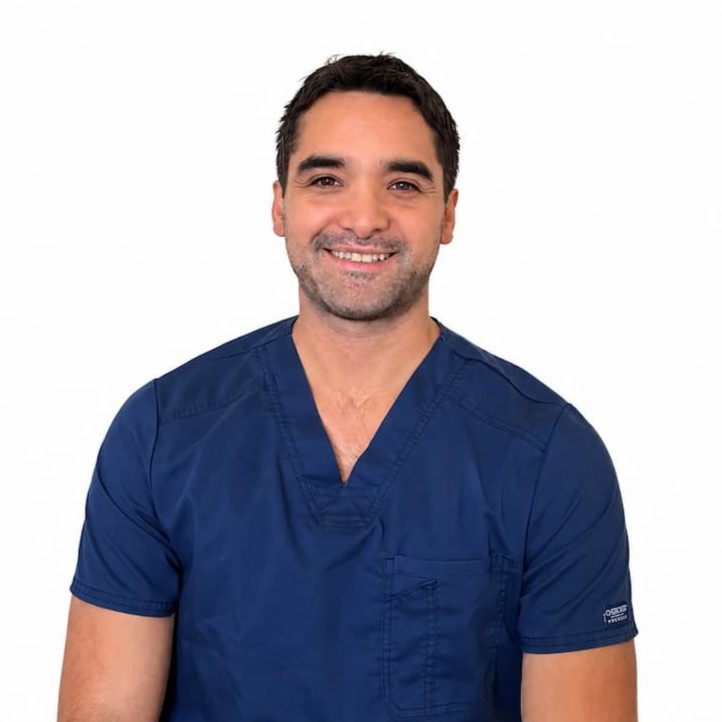
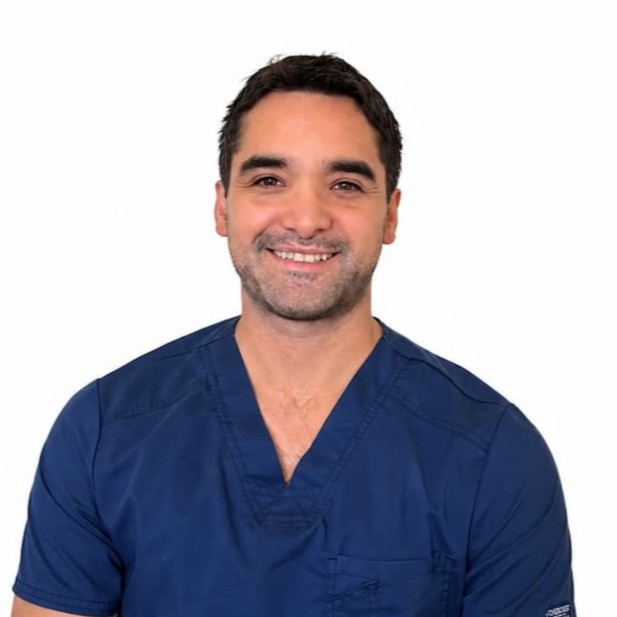
Change correct images

diff --git a/src/pages/QuienesSomos.tsx b/src/pages/QuienesSomos.tsx
@@ -12,6 +12,7 @@ import { useReveal } from '../hooks/useReveal';
 import surgeryImage from '../assets/images/cirugias/c-endometriosis-2.jpg';
 import therapyImage from '../assets/images/problemas/p-dolor-sexual.png';
 import researchImage from '../assets/images/quienes_somos/investigacion.png';
+import quienesSomosImage from '../assets/images/quienes_somos/redep_quienes_somos.png';
 
 const pillars = [
   {
@@ -65,22 +66,33 @@ function HeroSection() {
   return (
     <section className="bg-sand-50 pt-28 pb-16 md:pt-36 md:pb-24">
       <div ref={ref} className={`reveal ${visible ? 'is-visible' : ''} container-page`}>
-        <div className="max-w-4xl">
-          <h1 className="text-3xl font-semibold leading-[1.1] text-[#103F3F] sm:text-4xl md:text-5xl">
-            Quiénes Somos
-          </h1>
-          <div className="mt-6 space-y-4 text-lg leading-relaxed text-ink-600">
-            <p>
-              REDEP (Red de Endometriosis y Dolor Pélvico) es una red especializada de profesionales dedicados al
-              diagnóstico, tratamiento, cirugía, terapias de apoyo e investigación en endometriosis y dolor pélvico.
-            </p>
-            <p>
-              REDEP reúne profesionales de Santiago, Valdivia, Osorno y Puerto Montt para abordar enfermedades
-              ginecológicas complejas con una mirada multidisciplinaria.
-            </p>
-            <p>
-              Creamos un plan pensado para cada paciente y para el momento clínico en que se encuentra.
-            </p>
+        <div className="grid items-center gap-10 lg:grid-cols-[1fr_0.72fr]">
+          <div>
+            <h1 className="text-3xl font-semibold leading-[1.1] text-[#103F3F] sm:text-4xl md:text-5xl">
+              Quiénes Somos
+            </h1>
+            <div className="mt-6 space-y-4 text-lg leading-relaxed text-ink-600">
+              <p>
+                REDEP es una red especializada de profesionales dedicados al
+                diagnóstico, tratamiento, cirugía, terapias de apoyo e investigación en endometriosis y dolor pélvico.
+              </p>
+              <p>
+                REDEP reúne profesionales de Santiago, Valdivia, Osorno y Puerto Montt para abordar enfermedades
+                ginecológicas complejas con una mirada multidisciplinaria.
+              </p>
+              <p>
+                Creamos un plan pensado para cada paciente y para el momento clínico en que se encuentra.
+              </p>
+            </div>
+          </div>
+
+          <div className="relative overflow-hidden rounded-4xl shadow-lift ring-1 ring-sand-200">
+            <img
+              src={quienesSomosImage}
+              alt="Equipo de profesionales de REDEP Chile"
+              className="aspect-square h-full w-full object-cover"
+              loading="eager"
+            />
           </div>
         </div>
 
